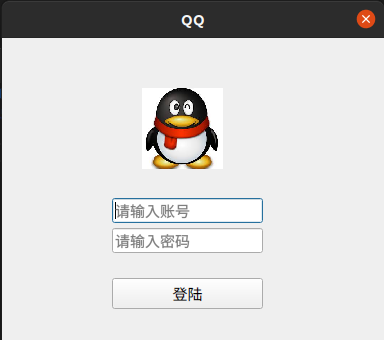
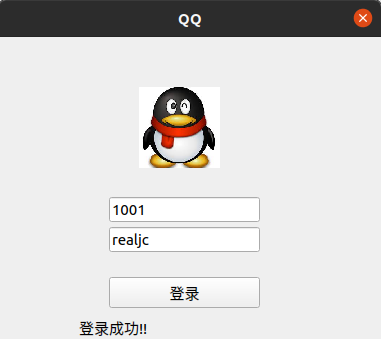
add local mysql for login

diff --git a/src/login.cpp b/src/login.cpp
@@ -1,10 +1,10 @@
 #include "qq/login.hpp"
+#include "qq/setting.hpp"
 
 
-Login::Login(QWidget *parent):QWidget(parent), ui(new Ui::Login)
+Login::Login(QWidget *parent):QWidget(parent), ui(new Ui::Login),mysql_conn_(nullptr)
 {
     ui->setupUi(this);
-    //setWindowFlags(Qt::FramelessWindowHint|Qt::Tool);
     this->setWindowFlags(Qt::Dialog | Qt::WindowMinMaxButtonsHint | Qt::WindowCloseButtonHint);
     QImage *img=new QImage();
     QDir curr_dir = QDir::current();
@@ -14,19 +14,57 @@ Login::Login(QWidget *parent):QWidget(parent), ui(new Ui::Login)
 }
 
 Login::~Login(){
+    if(mysql_conn_ !=nullptr){
+        mysql_conn_->disconnect();
+        delete mysql_conn_;
+        mysql_conn_ = nullptr;
+    }
     delete ui;
 }
 
 void Login::on_login_button_clicked()
 {
     if(ui->account_lineEdit->text()==""||ui->passwd_lineEdit->text()==""){
-        ui->warn_label->setText("账号密码不能为空!!");
+        ui->warn_label->setText("账号/密码不能为空!!");
     }else{
-        ui->warn_label->hide();
-        ui->login_button->hide();
-        ui->account_lineEdit->hide();
-        ui->passwd_lineEdit->hide();
+        // ui->account_lineEdit->hide();
+        // ui->passwd_lineEdit->hide();
+        this->connMysql();
+        if(!mysql_conn_) return;
+        string id = ui->account_lineEdit->text().toStdString();
+        string passwd = ui->passwd_lineEdit->text().toStdString();
+        string comm = "select passwd from accounts where id = "+ id;
+        Query query = mysql_conn_->query(comm);
+        StoreQueryResult result = query.store();
+        if(result.num_rows()==0){
+            ui->warn_label->setText("账号不存在!!");
+            return;
+        } 
+        Row row = result[0];
+        QString passwd_queried = QString::fromUtf8(result[0][0]);
+        cout<< id<< " "<< passwd<<endl;
+        if(passwd== passwd_queried.toStdString()){
+            ui->warn_label->setText("登录成功!!");
+        }else{
+            ui->warn_label->setText("账号/密码不正确!!");
+        }
     }
 }
 
 
+void Login::connMysql(){
+    if(mysql_conn_ != nullptr){
+        mysql_conn_->disconnect();
+        delete mysql_conn_;
+        mysql_conn_ = nullptr;
+    }
+    try{
+        mysql_conn_ = new Connection();
+        SetCharsetNameOption *charset = new SetCharsetNameOption("utf8");
+        mysql_conn_->set_option(charset);
+        mysql_conn_->connect(m_db.toLatin1(),m_ip.toLatin1(),m_user.toLatin1(),
+                                            m_passwd.toLatin1(),m_port.toInt());
+    }catch(...){
+        cout<<"数据库连接错误";
+    }
+}

diff --git a/include/qq/login.hpp b/include/qq/login.hpp
@@ -5,7 +5,13 @@
 #include <QLabel>
 #include <QDir>
 #include <QImage>
+#include <bits/stdc++.h>
+
 #include "ui_login.h"
+#define MYSQLPP_MYSQL_HEADERS_BURIED
+#include <mysql++/mysql++.h>
+using namespace std;
+using namespace mysqlpp;
 
 namespace Ui{
     class Login;
@@ -20,10 +26,11 @@ public:
 
 private slots:
     void on_login_button_clicked();
+    void connMysql();
 
 private:
     Ui::Login *ui;
-
+    Connection *mysql_conn_;
 //    QPropertyAnimation *animation;
 //    QByteArray byte_array;
 };

diff --git a/include/qq/setting.hpp b/include/qq/setting.hpp
@@ -1,0 +1,15 @@
+#ifndef QQ_SETTING_HPP
+#define QQ_SETTING_HPP
+
+
+#include <QCoreApplication>
+#include <QDebug>
+
+QString m_ip = "localhost";
+QString m_user = "root";
+QString m_passwd = "@Luwc1009";
+QString m_port = "0";
+QString m_db = "QQ";
+
+
+#endif
